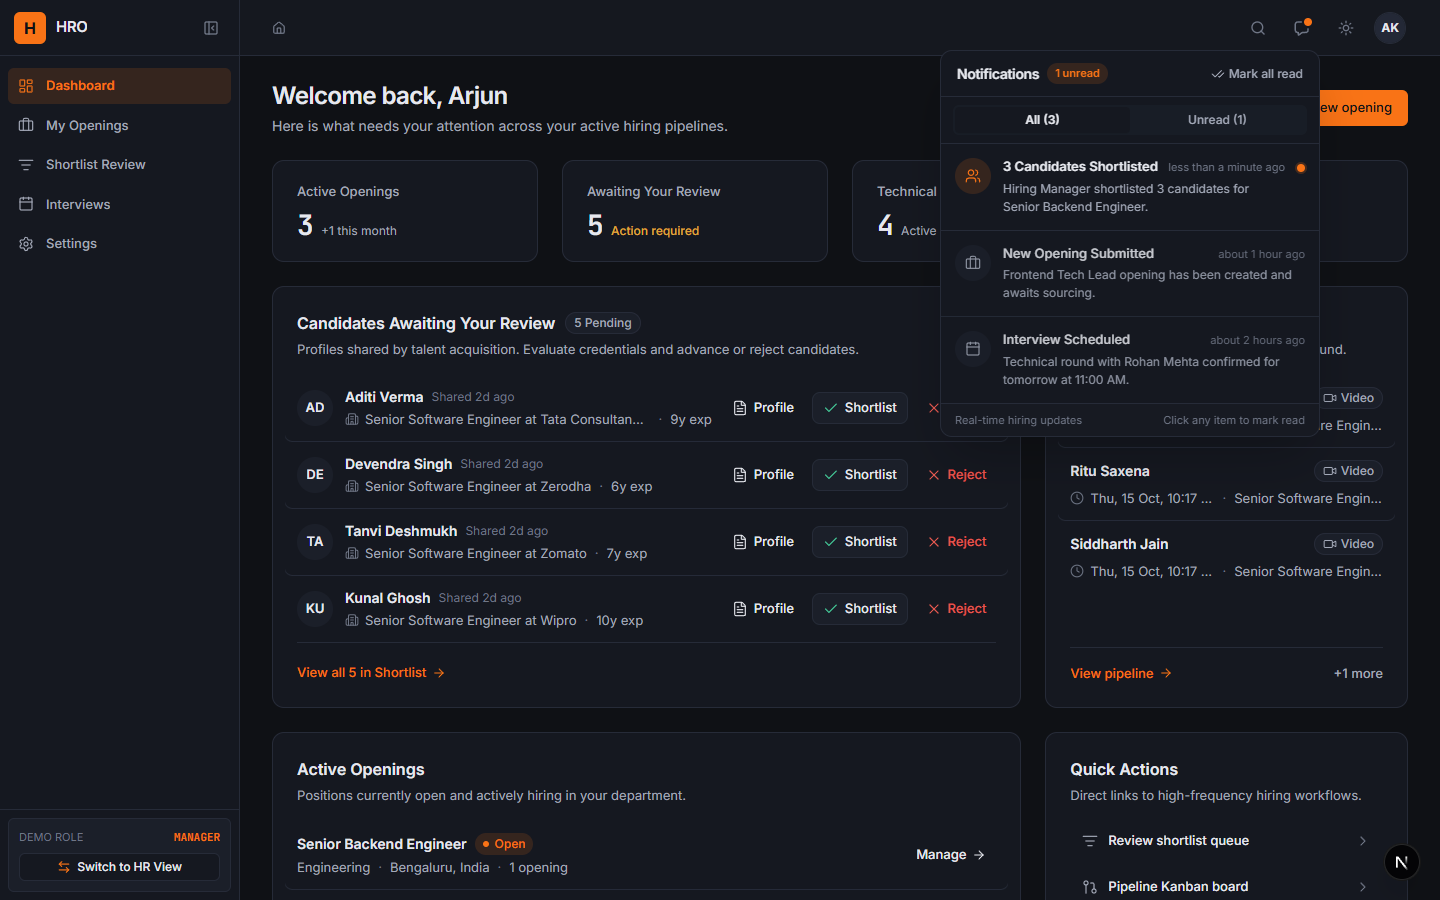
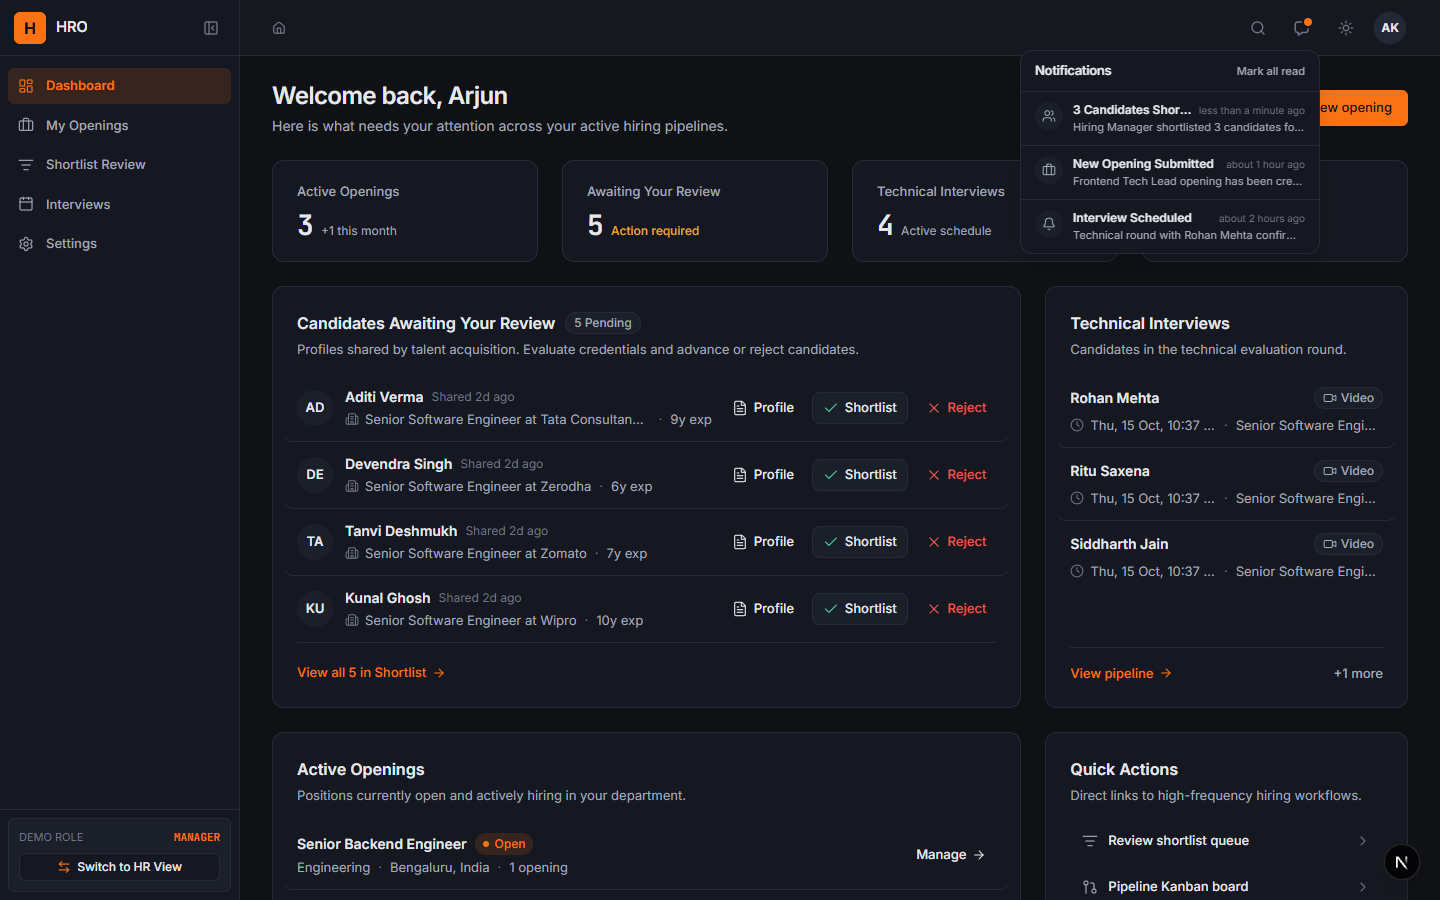
style(notifications): simplify and slim popover, remove badge, dot, and extra sections

diff --git a/components/shell/notifications-popover.tsx b/components/shell/notifications-popover.tsx
@@ -15,14 +15,7 @@ import {
   DropdownMenuTrigger,
   DropdownMenuContent,
 } from '@/components/ui/dropdown-menu';
-import {
-  Users,
-  Briefcase,
-  Calendar,
-  Bell,
-  CheckCheck,
-  CheckCircle2,
-} from 'lucide-react';
+import { Users, Briefcase, Bell } from 'lucide-react';
 import { toast } from 'sonner';
 
 export function NotificationsPopover() {
@@ -30,22 +23,14 @@ export function NotificationsPopover() {
   const { data: notifications = [] } = useNotifications(role);
   const markAsRead = useMarkNotificationAsRead();
   const markAllAsRead = useMarkAllNotificationsAsRead();
-  const [filter, setFilter] = React.useState<'all' | 'unread'>('all');
 
   const unreadCount = notifications.filter((n) => !n.read).length;
-
-  const filteredNotifications = React.useMemo(() => {
-    if (filter === 'unread') {
-      return notifications.filter((n) => !n.read);
-    }
-    return notifications;
-  }, [notifications, filter]);
 
   const handleMarkAll = (e: React.MouseEvent) => {
     e.stopPropagation();
     markAllAsRead.mutate(role, {
       onSuccess: () => {
-        toast.success('All notifications marked as read');
+        toast.success('All marked as read');
       },
     });
   };
@@ -54,28 +39,21 @@ export function NotificationsPopover() {
     const lower = title.toLowerCase();
     if (lower.includes('shortlist') || lower.includes('candidate')) {
       return (
-        <div className="bg-accent-subtle text-accent flex h-9 w-9 shrink-0 items-center justify-center rounded-full">
-          <Users className="h-4 w-4 stroke-[1.75]" />
+        <div className="bg-surface-2 text-text-muted flex h-7 w-7 shrink-0 items-center justify-center rounded-full">
+          <Users className="h-3.5 w-3.5 stroke-[1.75]" />
         </div>
       );
     }
     if (lower.includes('opening') || lower.includes('requisition') || lower.includes('job')) {
       return (
-        <div className="bg-surface-2 text-text-muted flex h-9 w-9 shrink-0 items-center justify-center rounded-full">
-          <Briefcase className="h-4 w-4 stroke-[1.75]" />
-        </div>
-      );
-    }
-    if (lower.includes('interview') || lower.includes('schedule')) {
-      return (
-        <div className="bg-surface-2 text-text-muted flex h-9 w-9 shrink-0 items-center justify-center rounded-full">
-          <Calendar className="h-4 w-4 stroke-[1.75]" />
+        <div className="bg-surface-2 text-text-muted flex h-7 w-7 shrink-0 items-center justify-center rounded-full">
+          <Briefcase className="h-3.5 w-3.5 stroke-[1.75]" />
         </div>
       );
     }
     return (
-      <div className="bg-surface-2 text-text-muted flex h-9 w-9 shrink-0 items-center justify-center rounded-full">
-        <Bell className="h-4 w-4 stroke-[1.75]" />
+      <div className="bg-surface-2 text-text-muted flex h-7 w-7 shrink-0 items-center justify-center rounded-full">
+        <Bell className="h-3.5 w-3.5 stroke-[1.75]" />
       </div>
     );
   };
@@ -100,79 +78,30 @@ export function NotificationsPopover() {
 
       <DropdownMenuContent
         align="end"
-        className="border-border bg-surface-1 w-[380px] p-0 shadow-2xl rounded-[var(--radius-lg)] overflow-hidden"
+        className="border-border bg-surface-1 w-[300px] p-0 shadow-xl rounded-[var(--radius-lg)] overflow-hidden"
       >
-        {/* Header Block */}
-        <div className="border-border flex items-center justify-between border-b px-4 py-3">
-          <div className="flex items-center gap-2">
-            <span className="text-text text-[14px] font-semibold tracking-tight">Notifications</span>
-            {unreadCount > 0 ? (
-              <span className="bg-accent-subtle text-accent rounded-full px-2 py-0.5 text-[11px] font-semibold">
-                {unreadCount} unread
-              </span>
-            ) : (
-              <span className="bg-surface-2 text-text-subtle rounded-full px-2 py-0.5 text-[11px] font-medium">
-                Caught up
-              </span>
-            )}
-          </div>
-
+        {/* Header: Clean title and optional mark all read */}
+        <div className="border-border flex items-center justify-between border-b px-3.5 py-2.5">
+          <span className="text-text text-[13px] font-semibold tracking-tight">Notifications</span>
           {unreadCount > 0 && (
             <button
               type="button"
               onClick={handleMarkAll}
-              className="text-text-muted hover:text-accent flex cursor-pointer items-center gap-1 text-[12px] font-medium transition-colors"
+              className="text-text-muted hover:text-accent text-[11px] font-medium transition-colors cursor-pointer"
             >
-              <CheckCheck className="h-3.5 w-3.5 stroke-[1.75]" />
-              <span>Mark all read</span>
+              Mark all read
             </button>
           )}
         </div>
 
-        {/* Filter Tabs */}
-        <div className="border-border border-b px-3 py-2 bg-surface-1">
-          <div className="bg-surface-2/60 flex rounded-[var(--radius-sm)] p-0.5 text-[12px]">
-            <button
-              type="button"
-              onClick={() => setFilter('all')}
-              className={`flex-1 rounded-[calc(var(--radius-sm)-2px)] py-1 font-medium transition-colors cursor-pointer ${
-                filter === 'all'
-                  ? 'bg-surface-1 text-text shadow-2xs font-semibold'
-                  : 'text-text-muted hover:text-text'
-              }`}
-            >
-              All ({notifications.length})
-            </button>
-            <button
-              type="button"
-              onClick={() => setFilter('unread')}
-              className={`flex-1 rounded-[calc(var(--radius-sm)-2px)] py-1 font-medium transition-colors cursor-pointer ${
-                filter === 'unread'
-                  ? 'bg-surface-1 text-text shadow-2xs font-semibold'
-                  : 'text-text-muted hover:text-text'
-              }`}
-            >
-              Unread ({unreadCount})
-            </button>
-          </div>
-        </div>
-
-        {/* Notifications List */}
-        <div className="divide-border max-h-[340px] divide-y overflow-y-auto">
-          {filteredNotifications.length === 0 ? (
-            <div className="flex flex-col items-center justify-center py-10 px-4 text-center">
-              <div className="bg-surface-2 text-text-muted mb-2.5 flex h-10 w-10 items-center justify-center rounded-full">
-                <CheckCircle2 className="text-success h-5 w-5 stroke-[1.75]" />
-              </div>
-              <p className="text-text text-[13px] font-semibold">All caught up</p>
-              <p className="text-text-muted mt-0.5 text-[12px]">
-                {filter === 'unread'
-                  ? 'No unread notifications left.'
-                  : 'You have no notifications right now.'}
-              </p>
+        {/* List: Slim, compact divider rows without orange dots or bulky sections */}
+        <div className="divide-border max-h-[300px] divide-y overflow-y-auto">
+          {notifications.length === 0 ? (
+            <div className="py-6 px-3 text-center">
+              <p className="text-text-muted text-[12px]">No new notifications</p>
             </div>
           ) : (
-            filteredNotifications.map((n) => (
+            notifications.map((n) => (
               <div
                 key={n.id}
                 onClick={() => {
@@ -180,38 +109,26 @@ export function NotificationsPopover() {
                     markAsRead.mutate(n.id);
                   }
                 }}
-                className={`hover:bg-surface-2 flex cursor-pointer items-start gap-3 p-3.5 transition-colors ${
-                  !n.read ? 'bg-surface-1' : 'opacity-85'
-                }`}
+                className="hover:bg-surface-2 flex cursor-pointer items-start gap-2.5 px-3.5 py-2.5 transition-colors"
               >
                 {getNotificationIcon(n.title)}
 
                 <div className="min-w-0 flex-1">
-                  <div className="flex items-baseline justify-between gap-2">
-                    <p className={`text-[13px] leading-tight truncate ${!n.read ? 'font-semibold text-text' : 'font-medium text-text'}`}>
+                  <div className="flex items-baseline justify-between gap-1.5">
+                    <p className="text-text text-[12px] font-semibold truncate leading-tight">
                       {n.title}
                     </p>
-                    <span className="text-text-subtle text-[11px] shrink-0 font-normal">
+                    <span className="text-text-subtle text-[10px] shrink-0 font-normal">
                       {formatRelativeTime(n.timestamp)}
                     </span>
                   </div>
-                  <p className="text-text-muted mt-1 text-[12px] leading-[18px]">
+                  <p className="text-text-muted mt-0.5 text-[11px] leading-[15px] truncate">
                     {n.message}
                   </p>
                 </div>
-
-                {!n.read && (
-                  <span className="bg-accent ring-accent/20 mt-1.5 h-2 w-2 shrink-0 rounded-full ring-2" />
-                )}
               </div>
             ))
           )}
-        </div>
-
-        {/* Pinned Footer */}
-        <div className="border-border bg-surface-2/30 flex items-center justify-between border-t px-3.5 py-2 text-[11px] text-text-subtle">
-          <span>Real-time hiring updates</span>
-          <span>Click any item to mark read</span>
         </div>
       </DropdownMenuContent>
     </DropdownMenu>
